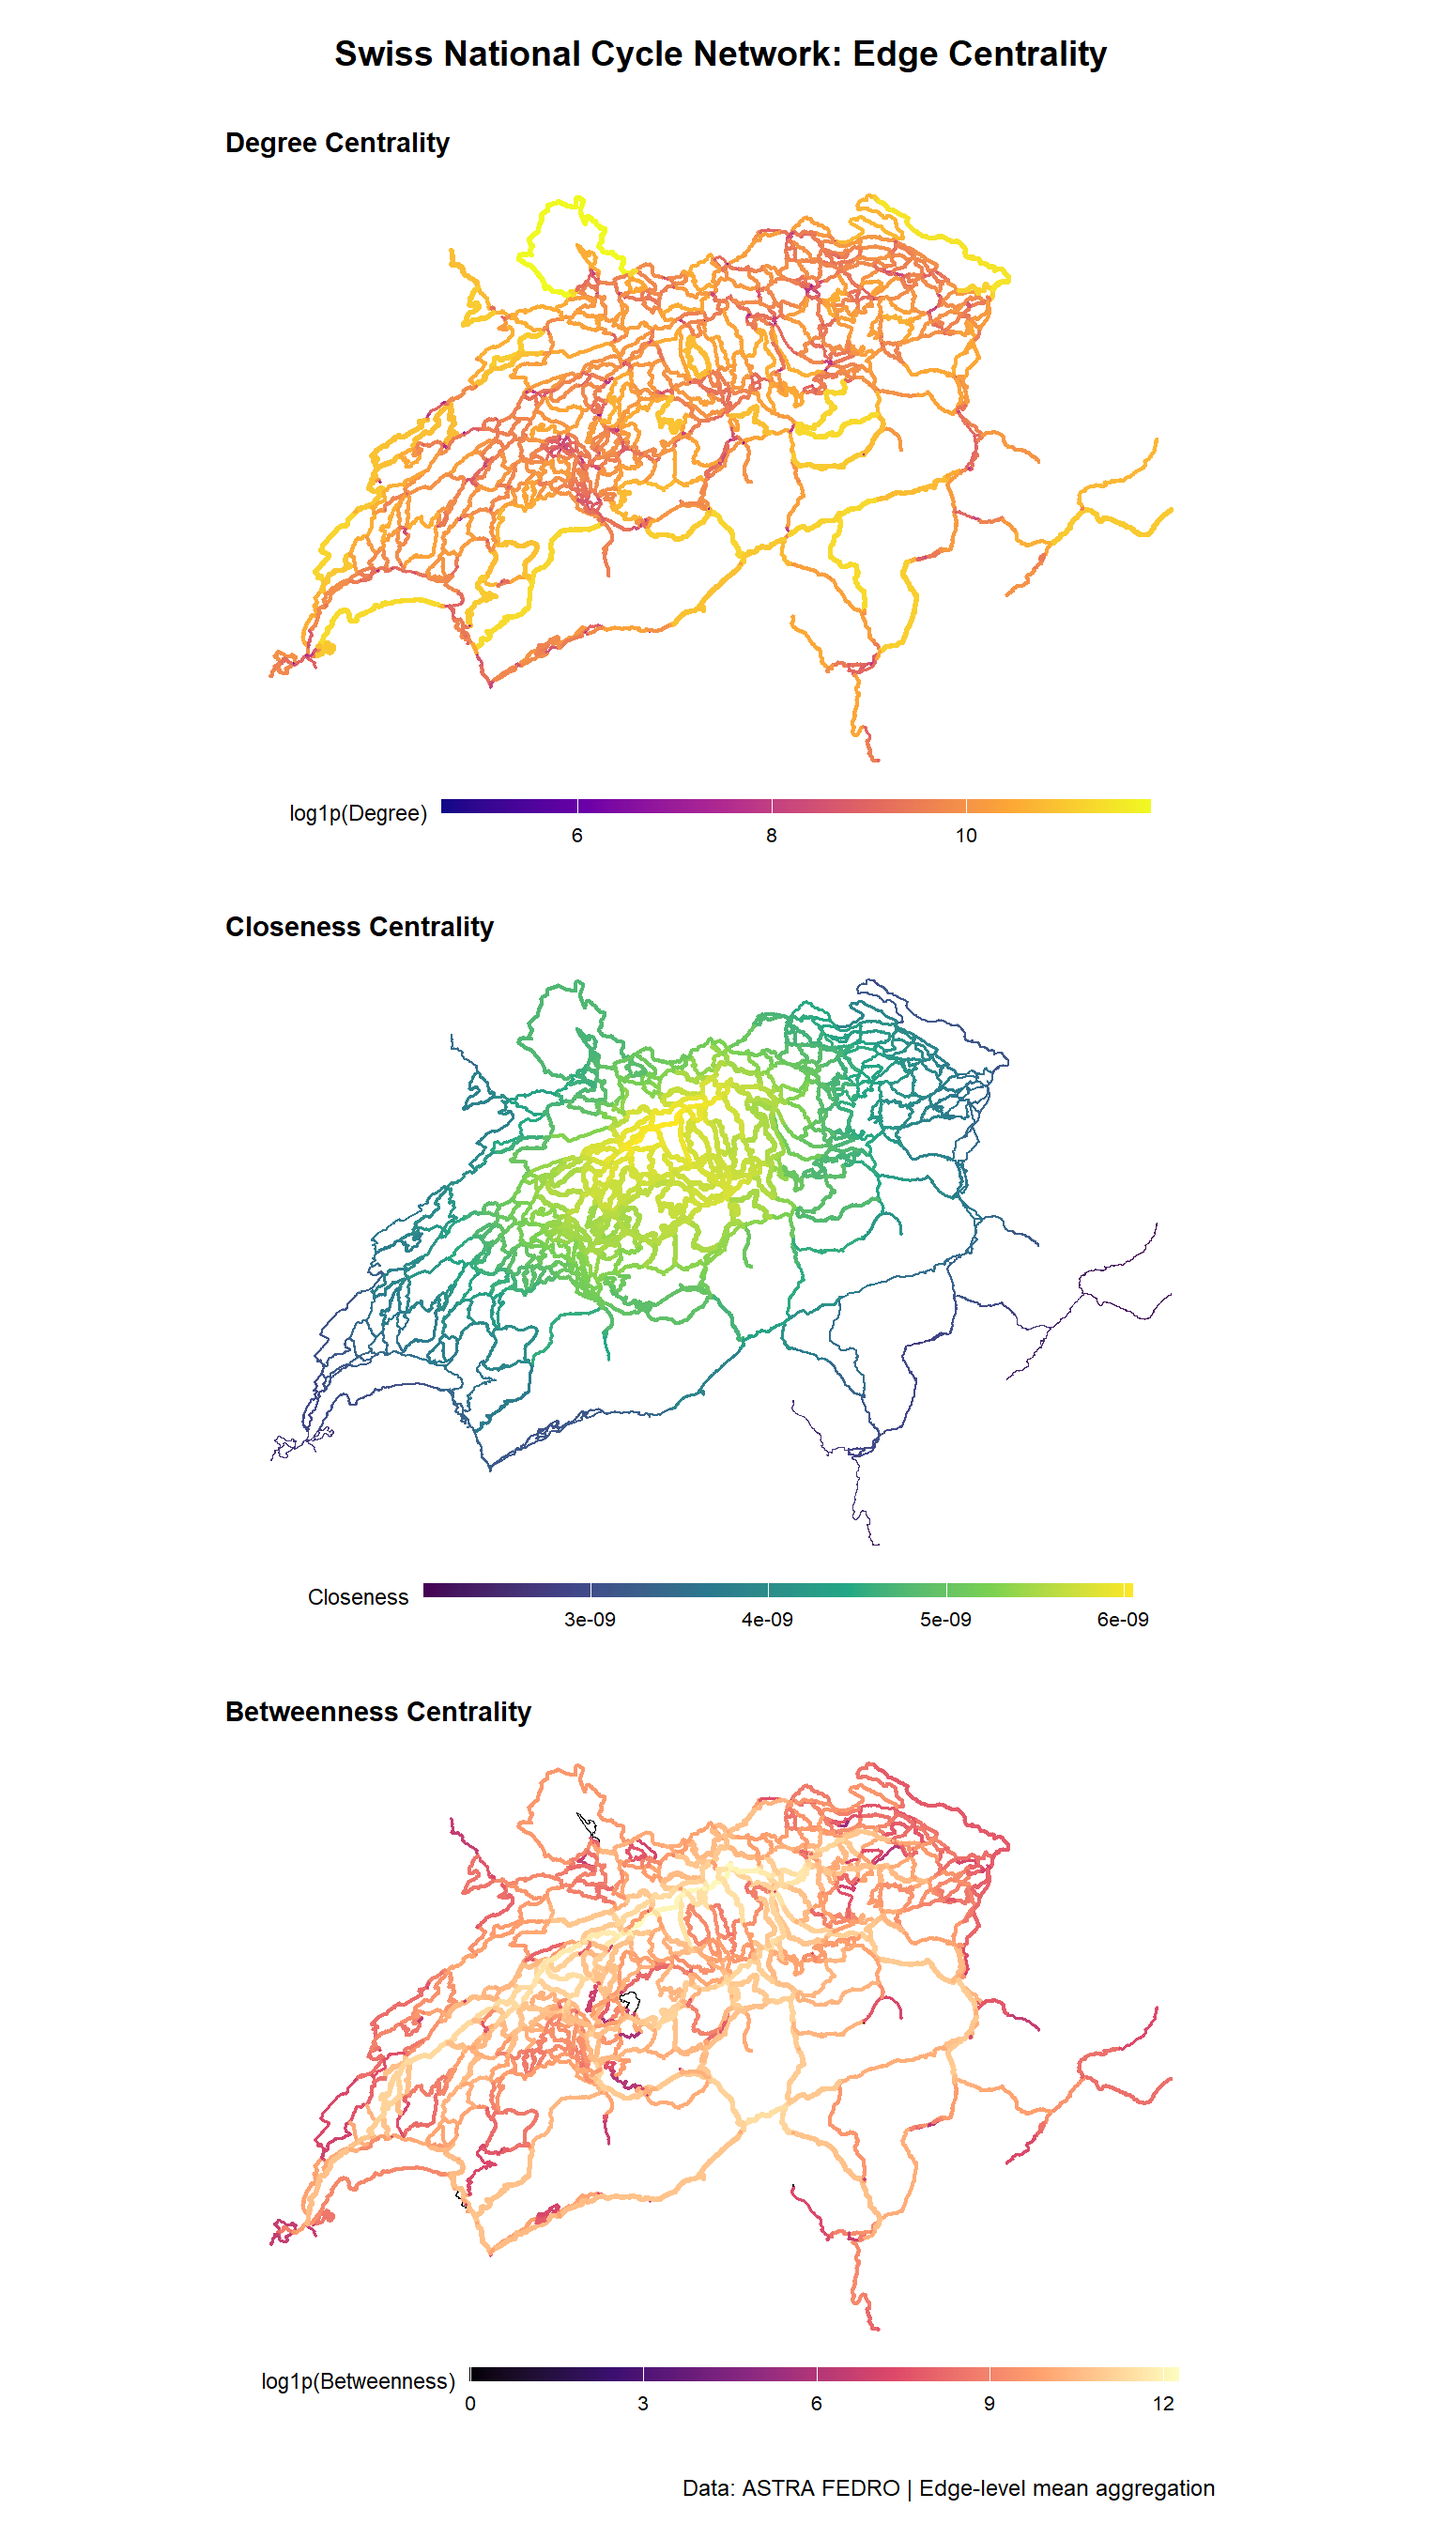
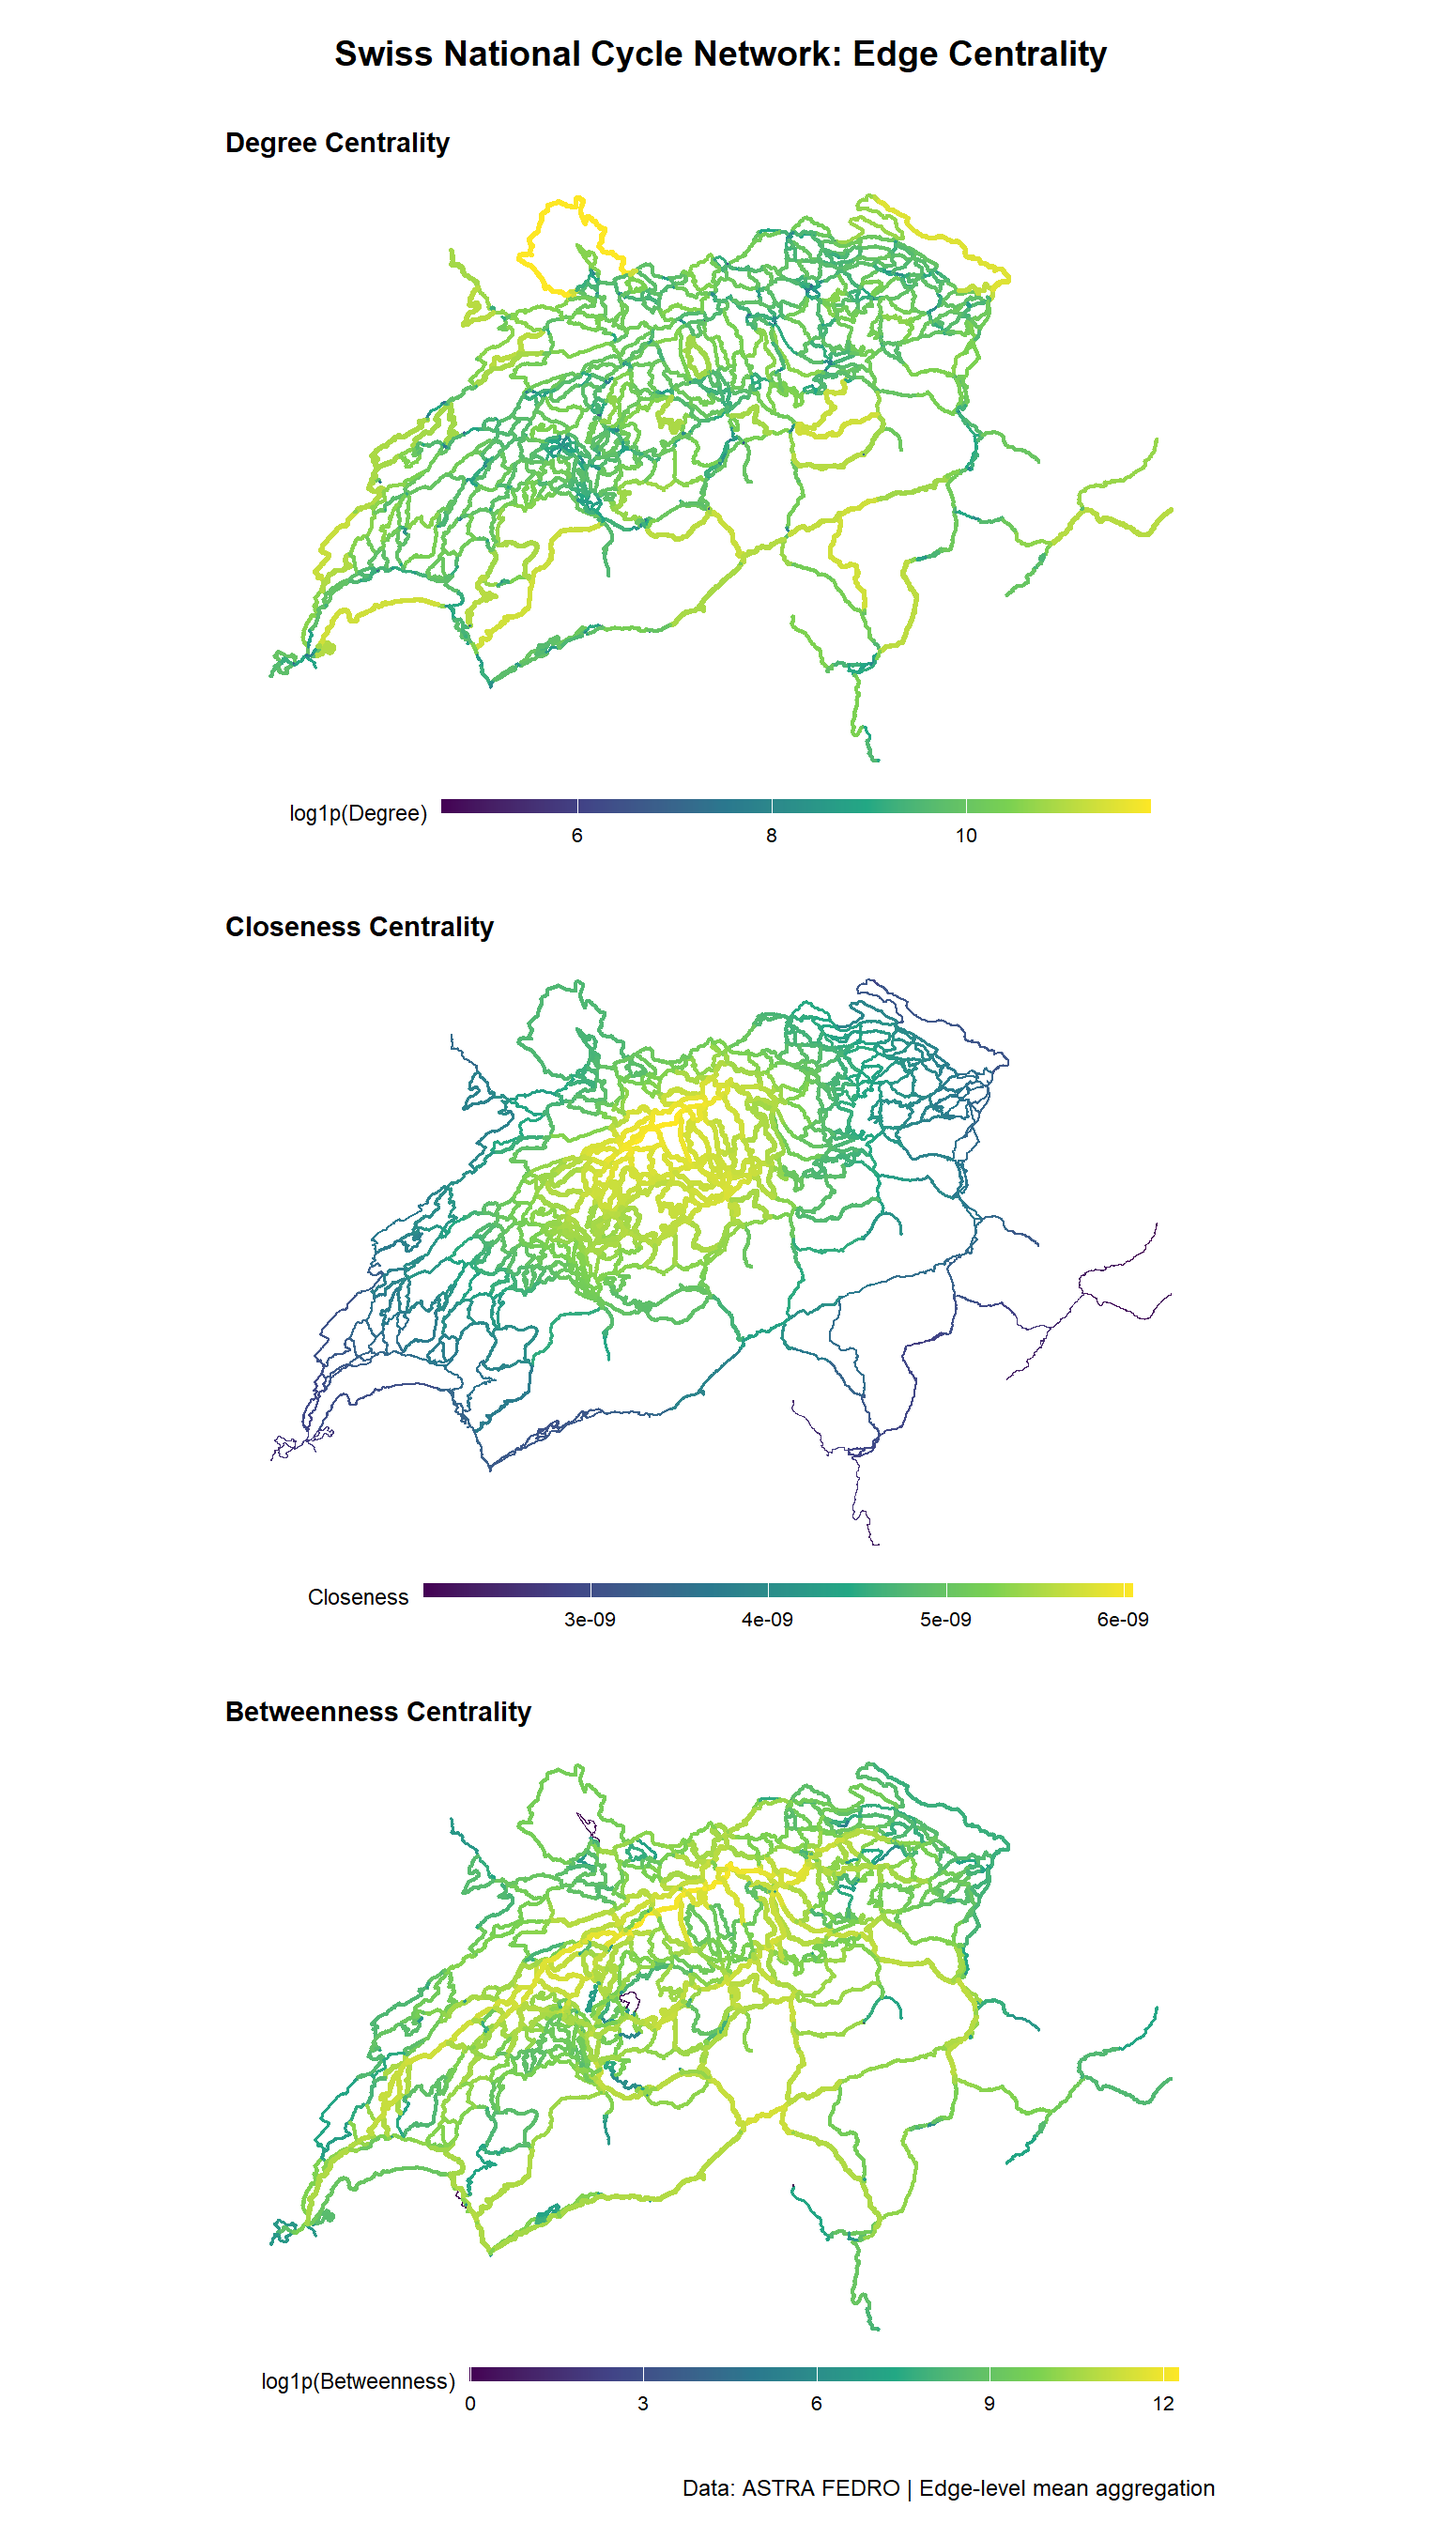
Discussion and colourmap change

diff --git a/_docs/index.html b/_docs/index.html
@@ -253,7 +253,7 @@ Projected CRS: CH1903+ / LV95</code></pre>
 <span id="cb15-14"><a href="#cb15-14" aria-hidden="true" tabindex="-1"></a><span class="co"># 1. Individual plots</span></span>
 <span id="cb15-15"><a href="#cb15-15" aria-hidden="true" tabindex="-1"></a>p_degree <span class="ot">&lt;-</span> <span class="fu">ggplot</span>(<span class="at">data =</span> veloland_edges_enriched) <span class="sc">+</span></span>
 <span id="cb15-16"><a href="#cb15-16" aria-hidden="true" tabindex="-1"></a>  <span class="fu">geom_sf</span>(<span class="fu">aes</span>(<span class="at">color =</span> degree_log1p, <span class="at">linewidth =</span> degree_log1p), <span class="at">lineend =</span> <span class="st">"round"</span>) <span class="sc">+</span></span>
-<span id="cb15-17"><a href="#cb15-17" aria-hidden="true" tabindex="-1"></a>  <span class="fu">scale_color_viridis_c</span>(<span class="at">option =</span> <span class="st">"plasma"</span>) <span class="sc">+</span></span>
+<span id="cb15-17"><a href="#cb15-17" aria-hidden="true" tabindex="-1"></a>  <span class="fu">scale_color_viridis_c</span>(<span class="at">option =</span> <span class="st">"viridis"</span>) <span class="sc">+</span></span>
 <span id="cb15-18"><a href="#cb15-18" aria-hidden="true" tabindex="-1"></a>  <span class="fu">scale_linewidth_continuous</span>(<span class="at">range =</span> <span class="fu">c</span>(<span class="fl">0.2</span>, <span class="fl">1.0</span>), <span class="at">guide =</span> <span class="st">"none"</span>) <span class="sc">+</span></span>
 <span id="cb15-19"><a href="#cb15-19" aria-hidden="true" tabindex="-1"></a>  <span class="fu">labs</span>(</span>
 <span id="cb15-20"><a href="#cb15-20" aria-hidden="true" tabindex="-1"></a>    <span class="at">title =</span> <span class="st">"Degree Centrality"</span>,</span>
@@ -275,7 +275,7 @@ Projected CRS: CH1903+ / LV95</code></pre>
 <span id="cb15-36"><a href="#cb15-36" aria-hidden="true" tabindex="-1"></a></span>
 <span id="cb15-37"><a href="#cb15-37" aria-hidden="true" tabindex="-1"></a>p_betweenness <span class="ot">&lt;-</span> <span class="fu">ggplot</span>(<span class="at">data =</span> veloland_edges_enriched) <span class="sc">+</span></span>
 <span id="cb15-38"><a href="#cb15-38" aria-hidden="true" tabindex="-1"></a>  <span class="fu">geom_sf</span>(<span class="fu">aes</span>(<span class="at">color =</span> betweenness_log1p, <span class="at">linewidth =</span> betweenness_log1p), <span class="at">lineend =</span> <span class="st">"round"</span>) <span class="sc">+</span></span>
-<span id="cb15-39"><a href="#cb15-39" aria-hidden="true" tabindex="-1"></a>  <span class="fu">scale_color_viridis_c</span>(<span class="at">option =</span> <span class="st">"magma"</span>) <span class="sc">+</span></span>
+<span id="cb15-39"><a href="#cb15-39" aria-hidden="true" tabindex="-1"></a>  <span class="fu">scale_color_viridis_c</span>(<span class="at">option =</span> <span class="st">"viridis"</span>) <span class="sc">+</span></span>
 <span id="cb15-40"><a href="#cb15-40" aria-hidden="true" tabindex="-1"></a>  <span class="fu">scale_linewidth_continuous</span>(<span class="at">range =</span> <span class="fu">c</span>(<span class="fl">0.2</span>, <span class="fl">1.0</span>), <span class="at">guide =</span> <span class="st">"none"</span>) <span class="sc">+</span></span>
 <span id="cb15-41"><a href="#cb15-41" aria-hidden="true" tabindex="-1"></a>  <span class="fu">labs</span>(</span>
 <span id="cb15-42"><a href="#cb15-42" aria-hidden="true" tabindex="-1"></a>    <span class="at">title =</span> <span class="st">"Betweenness Centrality"</span>,</span>
@@ -308,9 +308,8 @@ Projected CRS: CH1903+ / LV95</code></pre>
 </section>
 <section id="discussion" class="level3">
 <h3 class="anchored" data-anchor-id="discussion">Discussion</h3>
-<p>The maps show clear spatial patterns across the Swiss cycle network.</p>
-<p>Degree Centrality seems very similar for many of the edges. There is not much variation and I can’t see any clear patterns. The high alue of the single road around Basel is very intersting. Closeness centrality is highest on the Swiss Plateau (Mittelland), which sits more or less in the geographic center of the country and and has holds a large part of the population. Betweenness highlights a handful of corridors, mainly the main east-west routes that act as bridges for the whole network. Similar to the degree map, betweenn</p>
-<p>One clear limitation is that we used physical edge length as the only weight. In Switzerland, a 10 km flat road and a 10 km mountain pass are treated as equal, which they obviously aren’t for a cyclist. Including elevation data (e.g., a digital elevation model) to estimate actual travel effort or time would give more realistic results. Another alternative would be to use actual cycling speed or infrastructure quality as weights. As a lesson learned, always think about whether distance alone is a meaningful cost in the context of your network.</p>
+<p>The centrality analysis of the Swiss cycle network reveals spatial patterns, some more clearer than others.Degree Centrality seems very similar for many of the edges. There is not much variation and I can’t see any distinct patterns. The road sticking out the most is the “ring” in the north going around what i assume to be Basel. It has the highest degree centrality. Closeness centrality is highest on the Swiss Plateau (Mittelland), which sits more or less in the geographic center of the country and and holds a large part of the population. So both geographically and population density wise this can be expected and makes absolutely sense. Betweenness highlights a handful of corridors, mainly the main east-west routes that act as bridges for the whole network. Similar to the degree map, betweenness has low variation with only a few single roads sticking out.</p>
+<p>One clear limitation is that we used physical edge length as the only weight and therefore factors such as steepness are not considered. Including elevation data (e.g., a digital elevation model) to estimate actual travel effort or time would give more detailed results. Another alternative would be to use actual cycling speed or infrastructure quality as weights.</p>
 </section>
 </section>
 <section id="task-2-routing" class="level2">
@@ -425,12 +424,12 @@ Projected CRS: CH1903+ / LV95</code></pre>
 </section>
 <section id="discussion-1" class="level3">
 <h3 class="anchored" data-anchor-id="discussion-1">Discussion</h3>
-<p>The map shows shortest paths by length from one origin in the south (Ticino) to five destinations spread across the country. The routes follow the Veloland network and look geographically reasonable — they take logical corridors through the Alps rather than cutting straight lines across terrain.</p>
-<p>The main limitation here is the same as in Task 1: shortest by length is not the same as easiest or fastest. A route over the Gotthard is “short” on the map but very demanding in practice. An alternative would be to use a time- or effort-based weight instead of raw distance. Another limitation is that the routing is entirely dependent on the network being complete and connected — if a real road exists but is missing from the dataset, the algorithm cannot find it. As a lesson learned, the choice of weight has a big impact on which path the algorithm picks, and it is worth thinking carefully about what “shortest” should mean in context.</p>
+<p>The routing analysis successfully computes the shortest paths from a single origin to multiple destinations across the Swiss cycle network. The visualization clearly shows the main corridors connecting the origin to various points, with some routes sharing common segments, especially those heading towards the central and eastern parts of Switzerland. The use of edge length as weights ensures that the computed paths reflect actual travel distances, which is crucial for realistic routing. However, similar to the centrality analysis, this approach does not account for factors such as elevation changes or other factors. So for this sole purpose the analysise works well, but for more detailed routing recommendations, incorporating additional data (e.g., elevation, traffic conditions, or infrastructure quality) would improve the accuracy and relevance of the routes generated.</p>
 </section>
 </section>
 <section id="use-of-ai" class="level2">
 <h2 class="anchored" data-anchor-id="use-of-ai">Use of AI</h2>
+<p>I tried to solve the tasks mostly without the help of AI, but I used Gemini correct my solutions and improve some of my code if I was stuck or unsure.</p>
 </section>
 </section>
 
